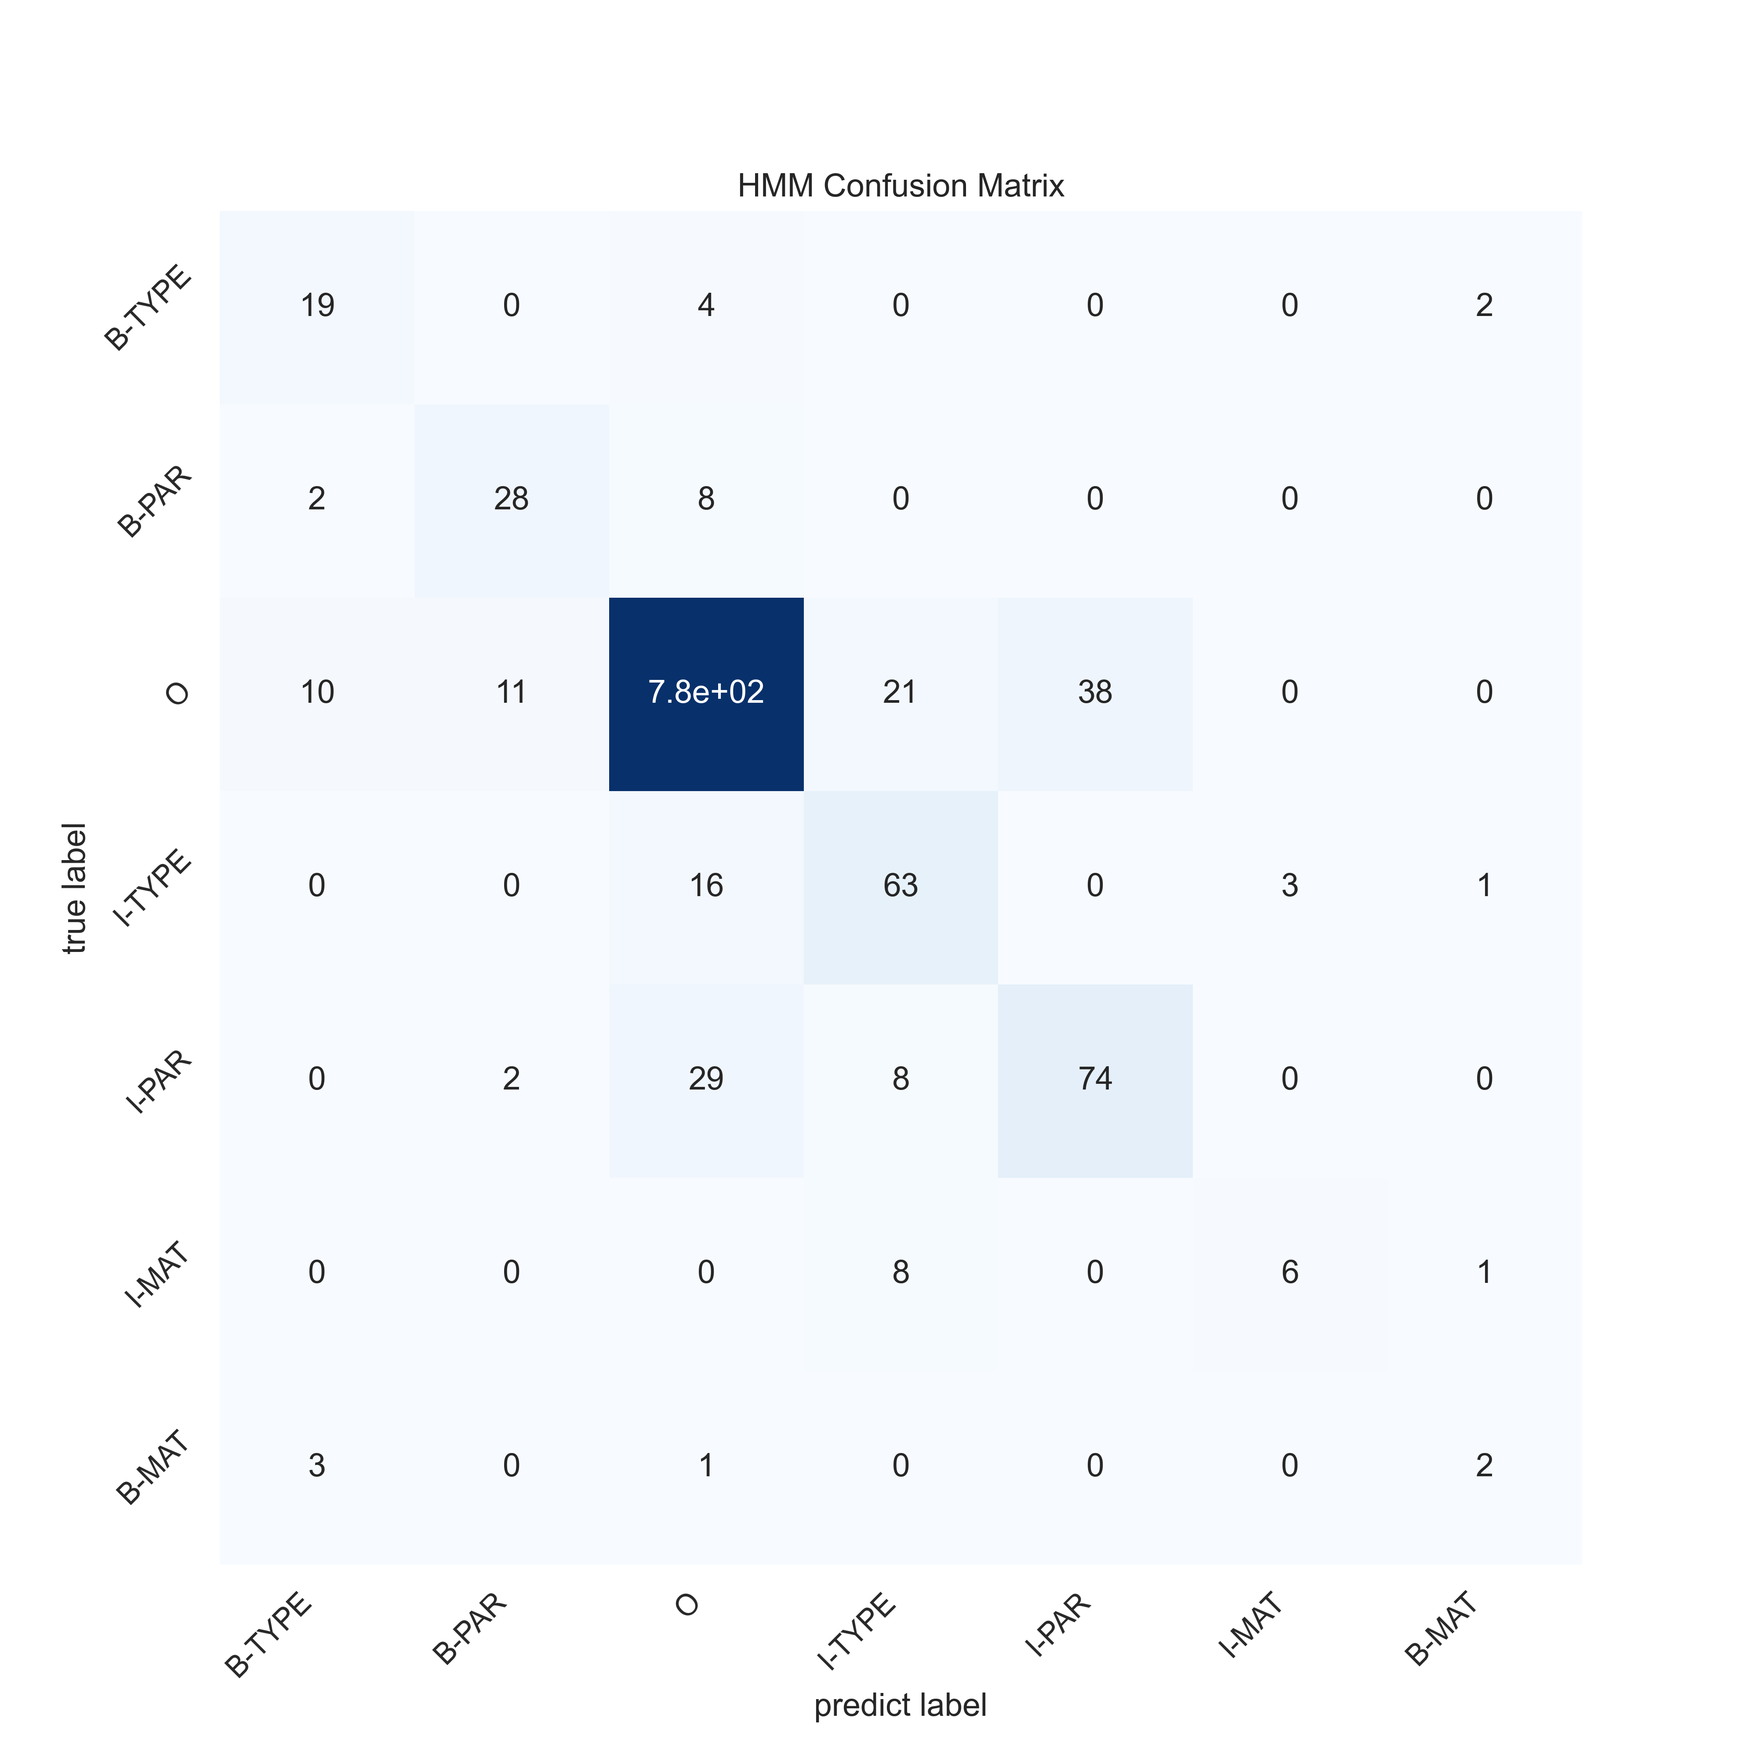
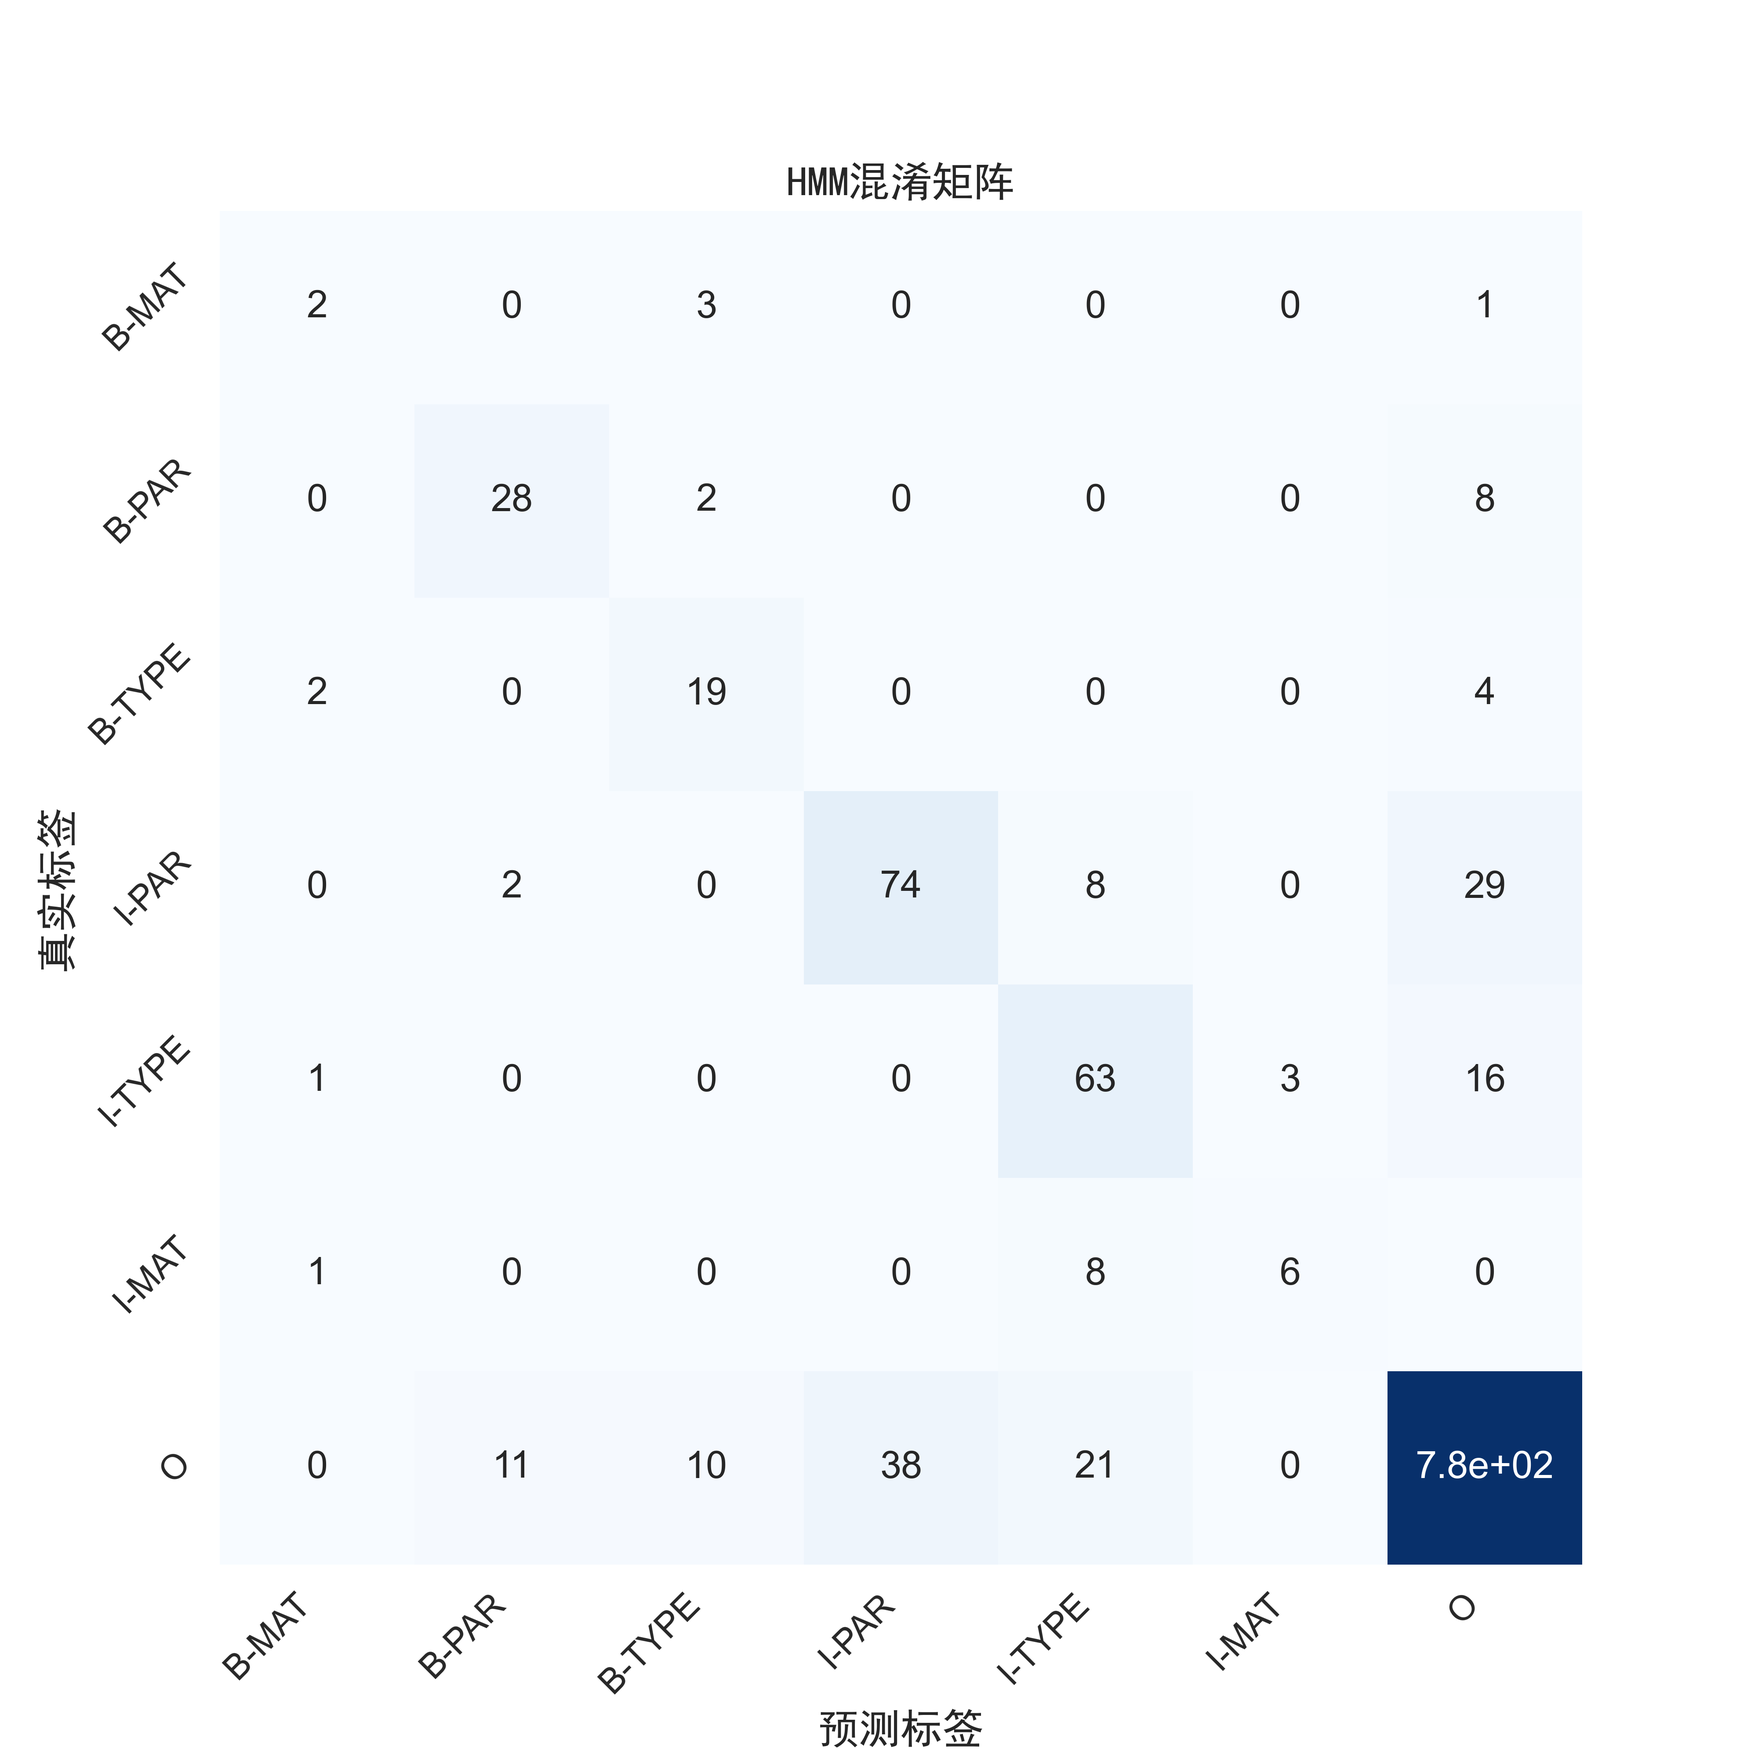
update

diff --git a/plot_KnowledgeGraph/knowledge_acquisition.py b/plot_KnowledgeGraph/knowledge_acquisition.py
@@ -1,0 +1,148 @@
+import argparse
+
+import networkx as nx
+from neo4j import GraphDatabase
+from pyvis.network import Network
+
+
+# Neo4j数据库连接类
+class Neo4jConnection:
+    def __init__(self, url, user, password):
+        self._driver = GraphDatabase.driver(url, auth=(user, password))
+
+    def close(self):
+        self._driver.close()
+
+    def query(self, query, parameters=None, db=None):
+        session = None
+        response = None
+        try:
+            session = self._driver.session(database=db) if db is not None else self._driver.session()
+            response = list(session.run(query, parameters))
+        except Exception as e:
+            print("Query failed:", e)
+        finally:
+            if session is not None:
+                session.close()
+        return response
+
+
+# 查询Neo4j数据库并获取结果
+def fetch_data(uri, user, password, cypher_query):
+    conn = Neo4jConnection(uri, user, password)
+    results = conn.query(cypher_query)
+    conn.close()
+    return results
+
+
+# 将查询结果转换为关系图
+def build_graph(args, results):
+    G = nx.DiGraph()  # 使用有向图
+    if args.query_type == 'type1' or args.query_type == 'type2':
+        for record in results:
+            node1 = record['n1']['name']
+            node2 = record['n2']['name']
+            relationship = record['r'].type
+            # 使用 get 方法获取节点的第一个标签，否则默认 'Unknown'
+            node1_label = list(record['n1'].labels)[0] if record['n1'].labels else 'Unknown'
+            node2_label = list(record['n2'].labels)[0] if record['n2'].labels else 'Unknown'
+            G.add_node(node1, label=node1_label)
+            G.add_node(node2, label=node2_label)
+            G.add_edge(node1, node2, label=relationship)
+    else:
+        for record in results:
+            node = record['n']['name']
+            node_label = list(record['n'].labels)[0] if record['n'].labels else 'Unknown'
+            G.add_node(node, label=node_label)
+    return G
+
+
+# 分配节点颜色
+def get_node_color(label):
+    color_map = {
+        'SYS': 'deeppink',
+        'METHOD': 'seagreen',
+        'TYPE': 'orange',
+        'MAT': 'aqua',
+        'PAR': 'orchid',
+        # 添加更多标签和颜色的映射
+    }
+    return color_map.get(label)  # 默认颜色为灰色
+
+
+# 打印节点标签信息
+def print_labels(args, results):
+    if args.query_type == 'type1' or args.query_type == 'type2':
+        for record in results:
+            node1_labels = record['n1'].labels
+            node1_name = record['n1'].get('name')
+            node2_labels = record['n2'].labels
+            node2_name = record['n2'].get('name')
+            print(f"Node 1 : name:{node1_name}  label:{node1_labels}")
+            print(f"Node 2 : name:{node2_name}  label:{node2_labels}")
+            print()
+    else:
+        for record in results:
+            node_name = record['n'].get('name')
+            node_labels = record['n'].labels
+            print(f"Node : name:{node_name}  label:{node_labels}")
+            print()
+
+
+# 使用Pyvis可视化关系图
+def visualize_graph_pyvis(G):
+    net = Network(notebook=True)
+    for node, data in G.nodes(data=True):
+        color = get_node_color(data['label'])
+        net.add_node(node, label=node, title=node, color=color)
+    for edge in G.edges(data=True):
+        net.add_edge(edge[0], edge[1], title=edge[2]['label'])
+    net.show("graph.html")
+
+
+def generate_query(query_type, keyword1, keyword2, keyword3):
+    query_templates = {
+        "type1": f"MATCH (n1:{keyword1})-[r:{keyword2}]->(n2:{keyword3}) RETURN n1, n2, r",
+        "type2": f"MATCH (n1)-[r:{keyword2}]->(n2) RETURN n1, n2, r",
+        "type3": f"MATCH (n:{keyword1}) RETURN n",
+        # 添加更多模板
+    }
+    print(query_templates[query_type])
+    return query_templates.get(query_type, "")
+
+
+def main():
+    # 解析命令行参数
+    parser = argparse.ArgumentParser(description="Query Neo4j and visualize the graph.")
+    parser.add_argument('--query_type', type=str, required=True, help="Type of query to execute.")
+    parser.add_argument('--keyword1', type=str, required=True, help="Keyword for the query.")
+    parser.add_argument('--keyword2', type=str, required=True, help="Keyword for the query.")
+    parser.add_argument('--keyword3', type=str, required=True, help="Keyword for the query.")
+    args = parser.parse_args()
+
+    # 生成查询语句
+    cypher_query = generate_query(args.query_type, args.keyword1, args.keyword2, args.keyword3)
+    if not cypher_query:
+        print("Invalid query type.")
+        return
+
+    # 示例连接信息
+    uri = "bolt://localhost:7687"  # 替换为你的Neo4j服务器URI
+    user = "neo4j"  # 替换为你的Neo4j用户名
+    password = "12345678"  # 替换为你的Neo4j密码
+
+    # 执行查询并获取结果
+    results = fetch_data(uri, user, password, cypher_query)
+
+    # 打印节点标签信息
+    print_labels(args, results)
+
+    # 构建关系图
+    G = build_graph(args, results)
+
+    # 可视化关系图
+    visualize_graph_pyvis(G)
+
+
+if __name__ == "__main__":
+    main()

diff --git a/Relation_Extraction/PCA_analysis/PCA_analysis.py b/Relation_Extraction/PCA_analysis/PCA_analysis.py
@@ -1,24 +1,29 @@
-import jieba
 import re
+
+import jieba
 import matplotlib.pyplot as plt
-from sklearn.feature_extraction.text import TfidfVectorizer
 from sklearn.cluster import KMeans
 from sklearn.decomposition import PCA
+from sklearn.feature_extraction.text import TfidfVectorizer
 
 # 示例中文文档
-documents = [
-    "根据单体电池封装形式不同，可以分为圆柱电芯、方形电芯及软包电芯。",
-    "电池单体模块将一定数量的单体电池连接在一起。",
-    "电池包在模组的基础上装配电池管理系统、电池冷却系统、线束、支架等零部件。",
-    "电池单体模块的组成包括单体电池、母线牌、隔层、散热铜管、隔离板、BMU采集板、熔丝、温度传感器、采样电压采集线束。",
-    "电池包内包括了电池管理系统、电池冷却系统、电池单体模块、高压系统、上箱体总成、下箱体总成、防火材料总成。",
-    "电池单体模块内每一节单体电池两端均设有保险装置,每个电池片和电池砖都有保险装置。",
-    "电池包还包含B+接触器和B-接触器、电流测量分流器和630A的保险丝。",
-    "高压系统包括加热继电器、加热保险、总负继电器、总正继电器、预充电阻、预充继电器、电池管理系统。",
-    "电池管理系统包括了继电器、电池信息采集器、状态计算和能量管理系统、安全管理系统、热管理系统、接口。",
-    "电池管理系统包括了电池管理器、熔断器、手动维修开关（MSD）、接触器、霍尔传感器/分流器、绝缘模块。",
-    "单体电池按电解质分为酸性电池、碱性电池、中性电池、有机电解质电池、固体电解质电池。"
-]
+# documents = [
+#     "根据单体电池封装形式不同，可以分为圆柱电芯、方形电芯及软包电芯。",
+#     "电池单体模块将一定数量的单体电池连接在一起。",
+#     "电池包在模组的基础上装配电池管理系统、电池冷却系统、线束、支架等零部件。",
+#     "电池单体模块的组成包括单体电池、母线牌、隔层、散热铜管、隔离板、BMU采集板、熔丝、温度传感器、采样电压采集线束。",
+#     "电池包内包括了电池管理系统、电池冷却系统、电池单体模块、高压系统、上箱体总成、下箱体总成、防火材料总成。",
+#     "电池单体模块内每一节单体电池两端均设有保险装置,每个电池片和电池砖都有保险装置。",
+#     "电池包还包含B+接触器和B-接触器、电流测量分流器和630A的保险丝。",
+#     "高压系统包括加热继电器、加热保险、总负继电器、总正继电器、预充电阻、预充继电器、电池管理系统。",
+#     "电池管理系统包括了继电器、电池信息采集器、状态计算和能量管理系统、安全管理系统、热管理系统、接口。",
+#     "电池管理系统包括了电池管理器、熔断器、手动维修开关（MSD）、接触器、霍尔传感器/分流器、绝缘模块。",
+#     "单体电池按电解质分为酸性电池、碱性电池、中性电池、有机电解质电池、固体电解质电池。"
+# ]
+documents = []
+with open('outputdta.txt', 'r', encoding='utf8') as f:
+    for line in f:
+        documents.append(line)
 
 # 定义中文停用词列表
 stopwords = {'的', '了', '和', '是', '在', '有', '就', '不', '人', '都', '一个', '上', '中', '大', '为', '等', '均'}

diff --git a/BERT-NER-Pytorch/tools/plot.py b/BERT-NER-Pytorch/tools/plot.py
@@ -1,14 +1,10 @@
 import json
 import os
 
-import matplotlib as mpl
 import matplotlib.pyplot as plt
 import seaborn as sns
 from sklearn.metrics import classification_report
 from sklearn.metrics import confusion_matrix
-
-mpl.rcParams["font.sans-serif"] = ["SimHei"]
-plt.switch_backend('agg')
 
 
 def data_process(path):
@@ -65,19 +61,20 @@ def data_process(path):
 
 
 def plot_my_confusionMatrix(y_true, y_pred, classes, title, name='myConfusionMatrix.png'):
+    font = {'family': 'SimHei', 'size': 17}
     cm = confusion_matrix(y_true, y_pred, labels=classes)
     plt.figure(figsize=(10, 10), dpi=400)
     # 更改字体大小
-    sns.set(font_scale=1.1)
+    sns.set(font_scale=1.3)
     # 使用xticklabels和yticklabels添加刻度标签
     sns.heatmap(cm, annot=True, cbar=False, cmap=plt.get_cmap('Blues'), xticklabels=classes, yticklabels=classes)
     # 设置刻度标签的显示位置和标签文本
     plt.xticks(rotation=45, ha="right")  # 绕x轴旋转45度，向右对齐，有助于标签阅读
     plt.yticks(rotation=45)  # 绕y轴旋转45度
     # 添加标签和标题
-    plt.xlabel('predict label')  # X轴标签
-    plt.ylabel('true label')  # Y轴标签
-    plt.title(title)  # 标题，每个图像有不同的编号
+    plt.xlabel('预测标签', fontdict=font)  # X轴标签
+    plt.ylabel('真实标签', fontdict=font)  # Y轴标签
+    plt.title(title, fontdict=font)  # 标题，每个图像有不同的编号
     # 如果需要保存图像，取消下一行的注释
     save_path = './plots/'
     if not os.path.exists(save_path):

diff --git a/named_entity_recognition/evaluate.py b/named_entity_recognition/evaluate.py
@@ -28,7 +28,7 @@ def hmm_train_eval(train_data, test_data, word2id, tag2id, remove_O=False):
 
     metrics = Metrics(test_tag_lists, pred_tag_lists, remove_O=remove_O)
     metrics.report_scores('HMM')
-    metrics.report_confusion_matrix('HMM Confusion Matrix', 'HMM_confusion_matrix.png')
+    metrics.report_confusion_matrix('HMM混淆矩阵', 'HMM_confusion_matrix.png')
 
     return pred_tag_lists
 
@@ -46,7 +46,7 @@ def crf_train_eval(train_data, test_data, remove_O=False):
 
     metrics = Metrics(test_tag_lists, pred_tag_lists, remove_O=remove_O)
     metrics.report_scores('CRF')
-    metrics.report_confusion_matrix('CRF Confusion Matrix', 'CRF_confusion_matrix.png')
+    metrics.report_confusion_matrix('CRF混淆矩阵', 'CRF_confusion_matrix.png')
 
     return pred_tag_lists
 
@@ -75,10 +75,10 @@ def bilstm_train_and_eval(train_data, dev_data, test_data,
     metrics = Metrics(test_tag_lists, pred_tag_lists, remove_O=remove_O)
     if model_name == "bilstm":
         metrics.report_scores('BiLSTM')
-        metrics.report_confusion_matrix('BILSTM Confusion Matrix', 'BILSTM_confusion_matrix.png')
+        metrics.report_confusion_matrix('BILSTM混淆矩阵', 'BILSTM_confusion_matrix.png')
     else:
         metrics.report_scores('BiLSTM+CRF')
-        metrics.report_confusion_matrix('BILSTM_CRF Confusion Matrix', 'BILSTM_CRF_confusion_matrix.png')
+        metrics.report_confusion_matrix('BILSTM_CRF混淆矩阵', 'BILSTM_CRF_confusion_matrix.png')
 
     return pred_tag_lists
 

diff --git a/named_entity_recognition/plot.py b/named_entity_recognition/plot.py
@@ -64,20 +64,21 @@ def data_process(path):
     return data
 
 
-def plot_my_confusionMatrix(y_true, y_pred, classes, title='NER混淆矩阵', name='myConfusionMatrix.png'):
+def plot_my_confusionMatrix(y_true, y_pred, classes, title, name='myConfusionMatrix.png'):
+    font = {'family': 'SimHei', 'size': 17}
     cm = confusion_matrix(y_true, y_pred, labels=classes)
     plt.figure(figsize=(10, 10), dpi=400)
     # 更改字体大小
-    sns.set(font_scale=1.1)
+    sns.set(font_scale=1.3)
     # 使用xticklabels和yticklabels添加刻度标签
     sns.heatmap(cm, annot=True, cbar=False, cmap=plt.get_cmap('Blues'), xticklabels=classes, yticklabels=classes)
     # 设置刻度标签的显示位置和标签文本
     plt.xticks(rotation=45, ha="right")  # 绕x轴旋转45度，向右对齐，有助于标签阅读
     plt.yticks(rotation=45)  # 绕y轴旋转45度
     # 添加标签和标题
-    plt.xlabel('predict label')  # X轴标签
-    plt.ylabel('true label')  # Y轴标签
-    plt.title(title)  # 标题，每个图像有不同的编号
+    plt.xlabel('预测标签', fontdict=font)  # X轴标签
+    plt.ylabel('真实标签', fontdict=font)  # Y轴标签
+    plt.title(title, fontdict=font)  # 标题，每个图像有不同的编号
     # 如果需要保存图像，取消下一行的注释
     save_path = './plots/'
     if not os.path.exists(save_path):

diff --git a/BERT-NER-Pytorch/run_ner_crf.py b/BERT-NER-Pytorch/run_ner_crf.py
@@ -292,7 +292,8 @@ def predict(args, model, tokenizer, prefix=""):
         pbar(step)
     logger.info("\n")
     # plot confusion matrix
-    plot_my_confusionMatrix(y_true, y_pred, classes, 'Bert_CRF Confusion Matrix', 'bert_crf_confusionMatrix.png')
+    plt.rcParams['font.sans-serif'] = ['SimHei']  # 指定默认字体为宋体
+    plot_my_confusionMatrix(y_true, y_pred, classes, 'Bert_CRF混淆矩阵', 'bert_crf_confusionMatrix.png')
     # plot report
     plot_classification_report(y_true, y_pred, '{}-crf'.format(args.model_type))
     with open(output_predict_file, "w") as writer:

diff --git a/BERT-NER-Pytorch/run_ner_softmax.py b/BERT-NER-Pytorch/run_ner_softmax.py
@@ -282,7 +282,7 @@ def predict(args, model, tokenizer, prefix=""):
         pbar(step)
     logger.info("\n")
     # plot confusion matrix
-    plot_my_confusionMatrix(y_true, y_pred, classes, 'Bert_Softmax Confusion Matrix','bert_softmax_confusionMatrix.png')
+    plot_my_confusionMatrix(y_true, y_pred, classes, 'Bert_Softmax混淆矩阵', 'bert_softmax_confusionMatrix.png')
     # plot report
     plot_classification_report(y_true, y_pred, '{}-softmax'.format(args.model_type))
     with open(output_submit_file, "w") as writer:

diff --git a/plot_KnowledgeGraph/build_graph.py b/plot_KnowledgeGraph/build_graph.py
@@ -51,3 +51,4 @@ if __name__ == '__main__':
                 zhucong = Relationship(zhu, predicate, cong)
                 my_graph.create(zhucong)
     print('图谱生成完成!')
+
